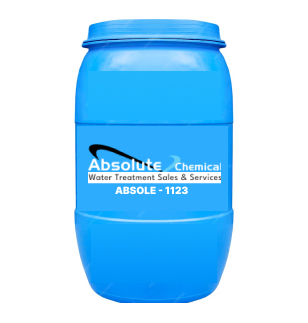
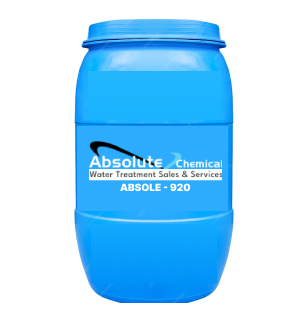
latest

Changed region(s): [[0.263, 0.4334, 0.7305, 0.6192]]

diff --git a/blog.html b/blog.html
@@ -157,7 +157,7 @@
 
                                             <li><a href="about.html"><span>About Us</span></a></li>
                                             <li><a href="shop.html"><span>Products</span></a> </li>
-                                            <li><a href="blog.html"><span>Blogs</span></a></li>
+                                            <li class="current"><a href="blog.html"><span>Blogs</span></a></li>
                                             <li><a href="contact.html"><span>Contact Us</span></a></li>
                                         </ul>
                                     </div>

diff --git a/index.html b/index.html
@@ -727,8 +727,8 @@
                                 </div>
                             </div>
                             <div class="title-holder">
-                                <h3><a href="product-details.html">ABSOLE - 1123</a></h3>
-                                <h6>Cooling Water Chemical Treatment</h6>
+                                <h3><a href="product-details.html">ABSOLE - 920</a></h3>
+                                <h6>Microbiosides</h6>
                             </div>
                         </div>
                     </div>
